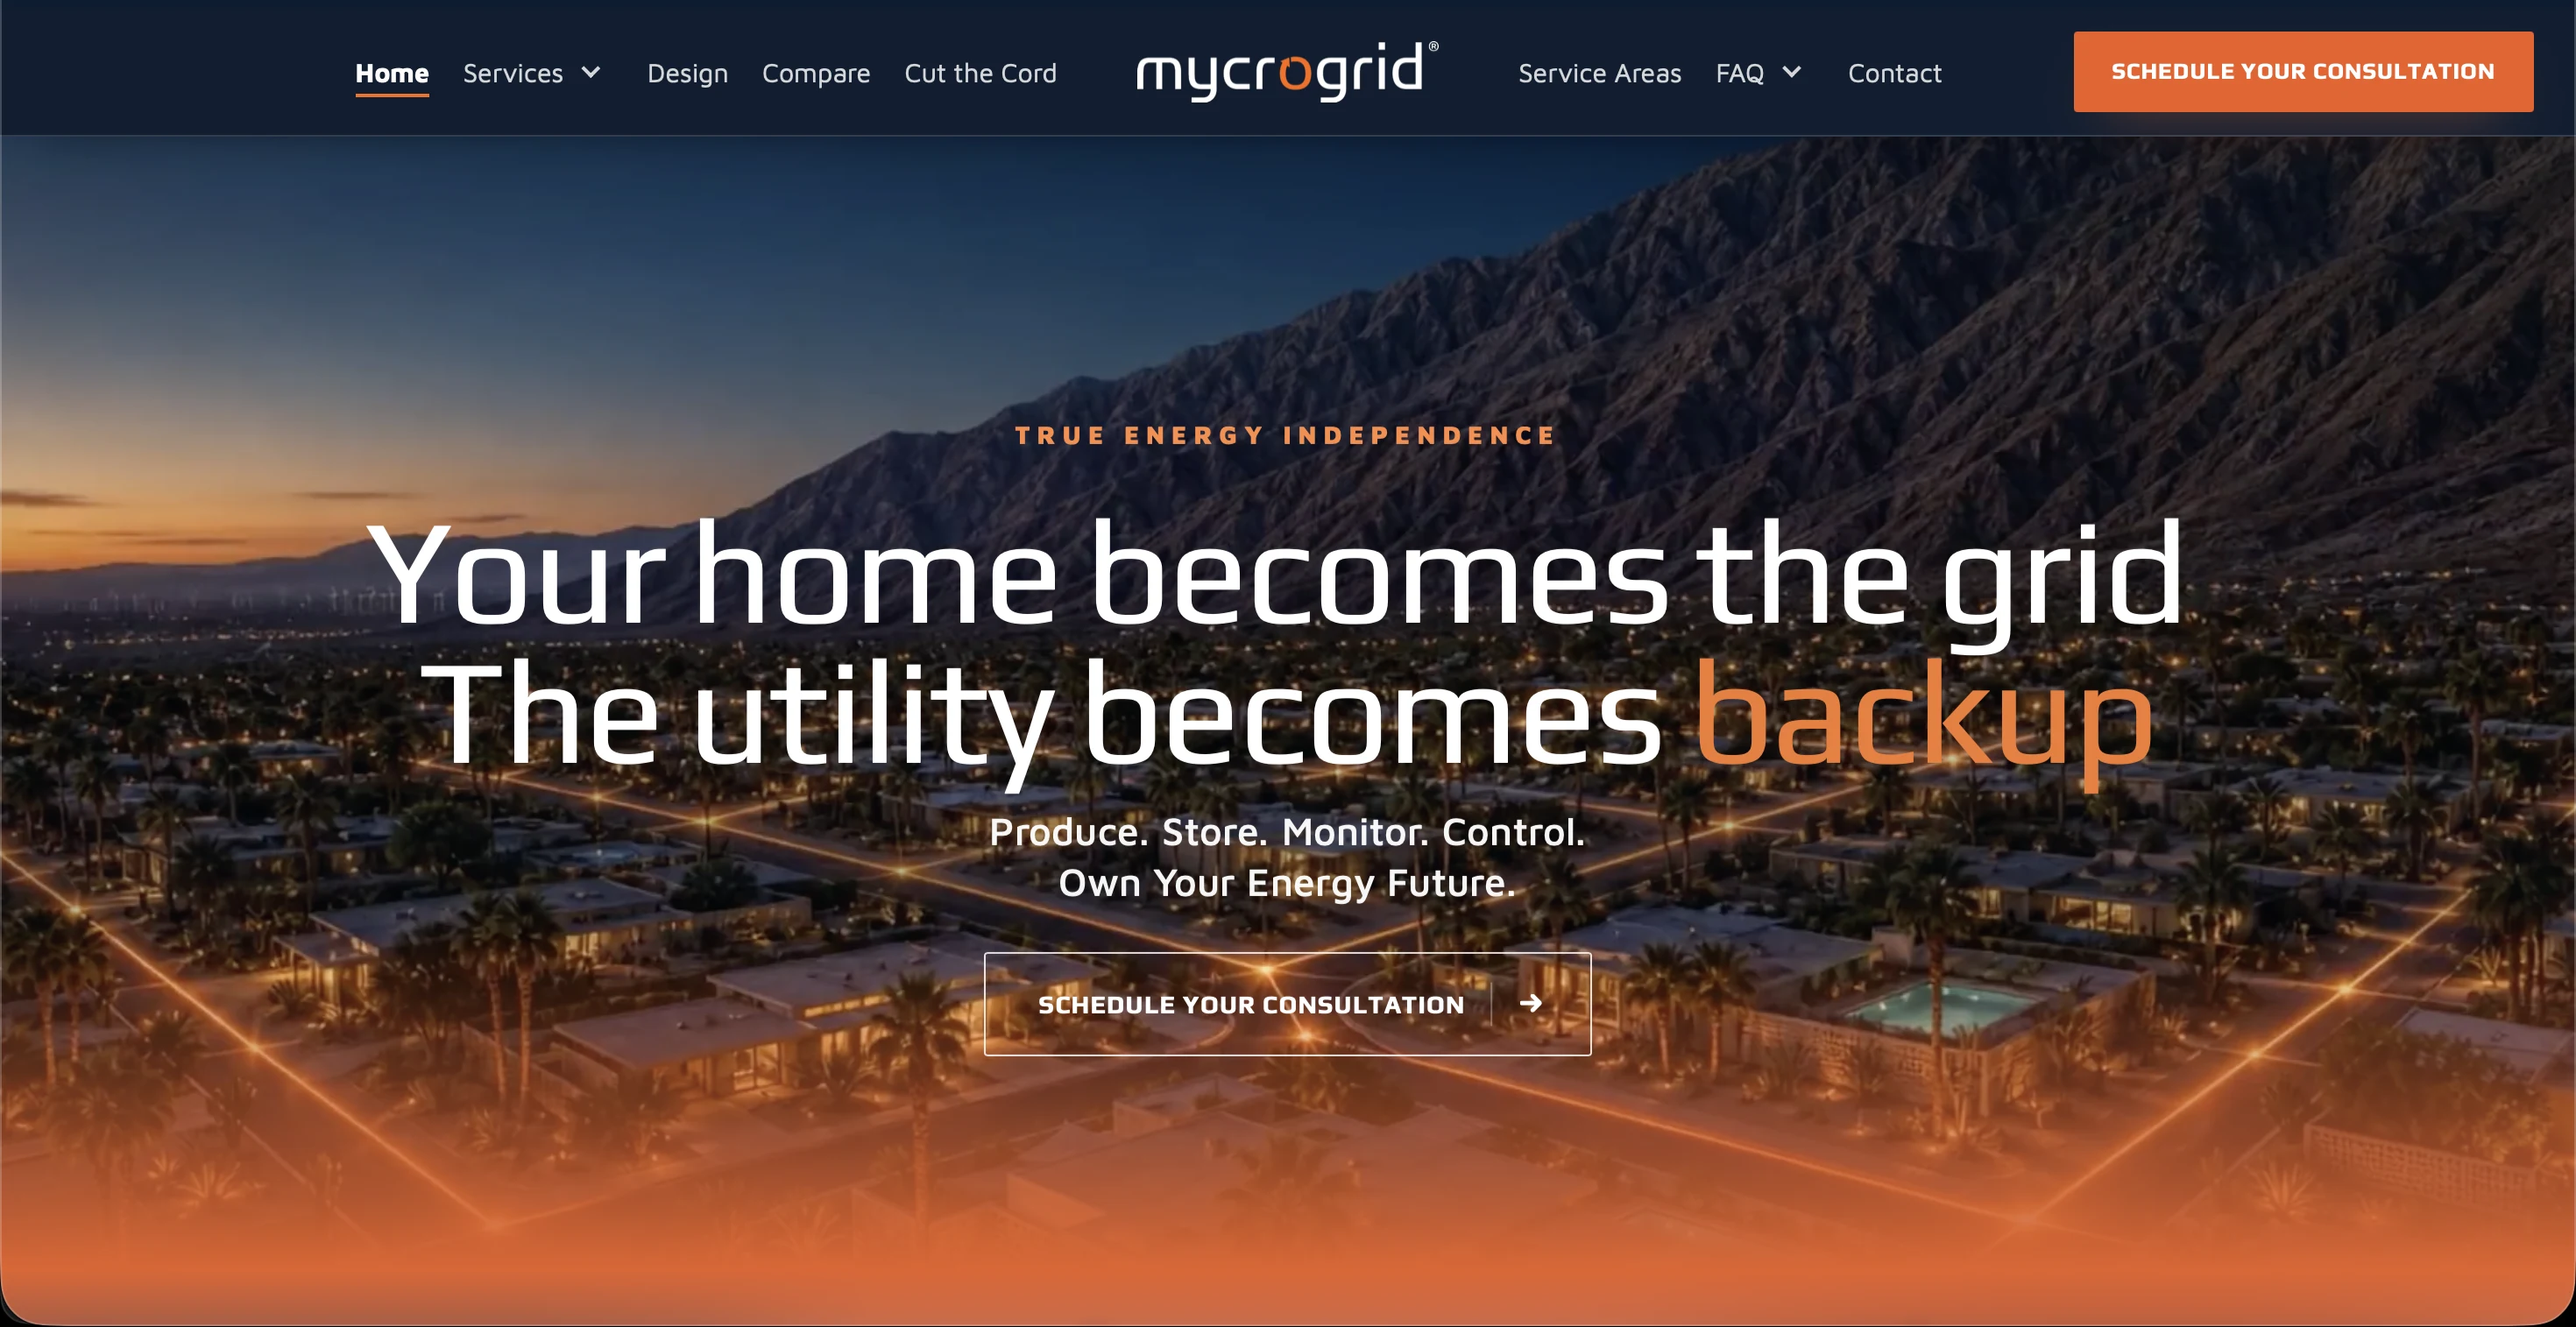
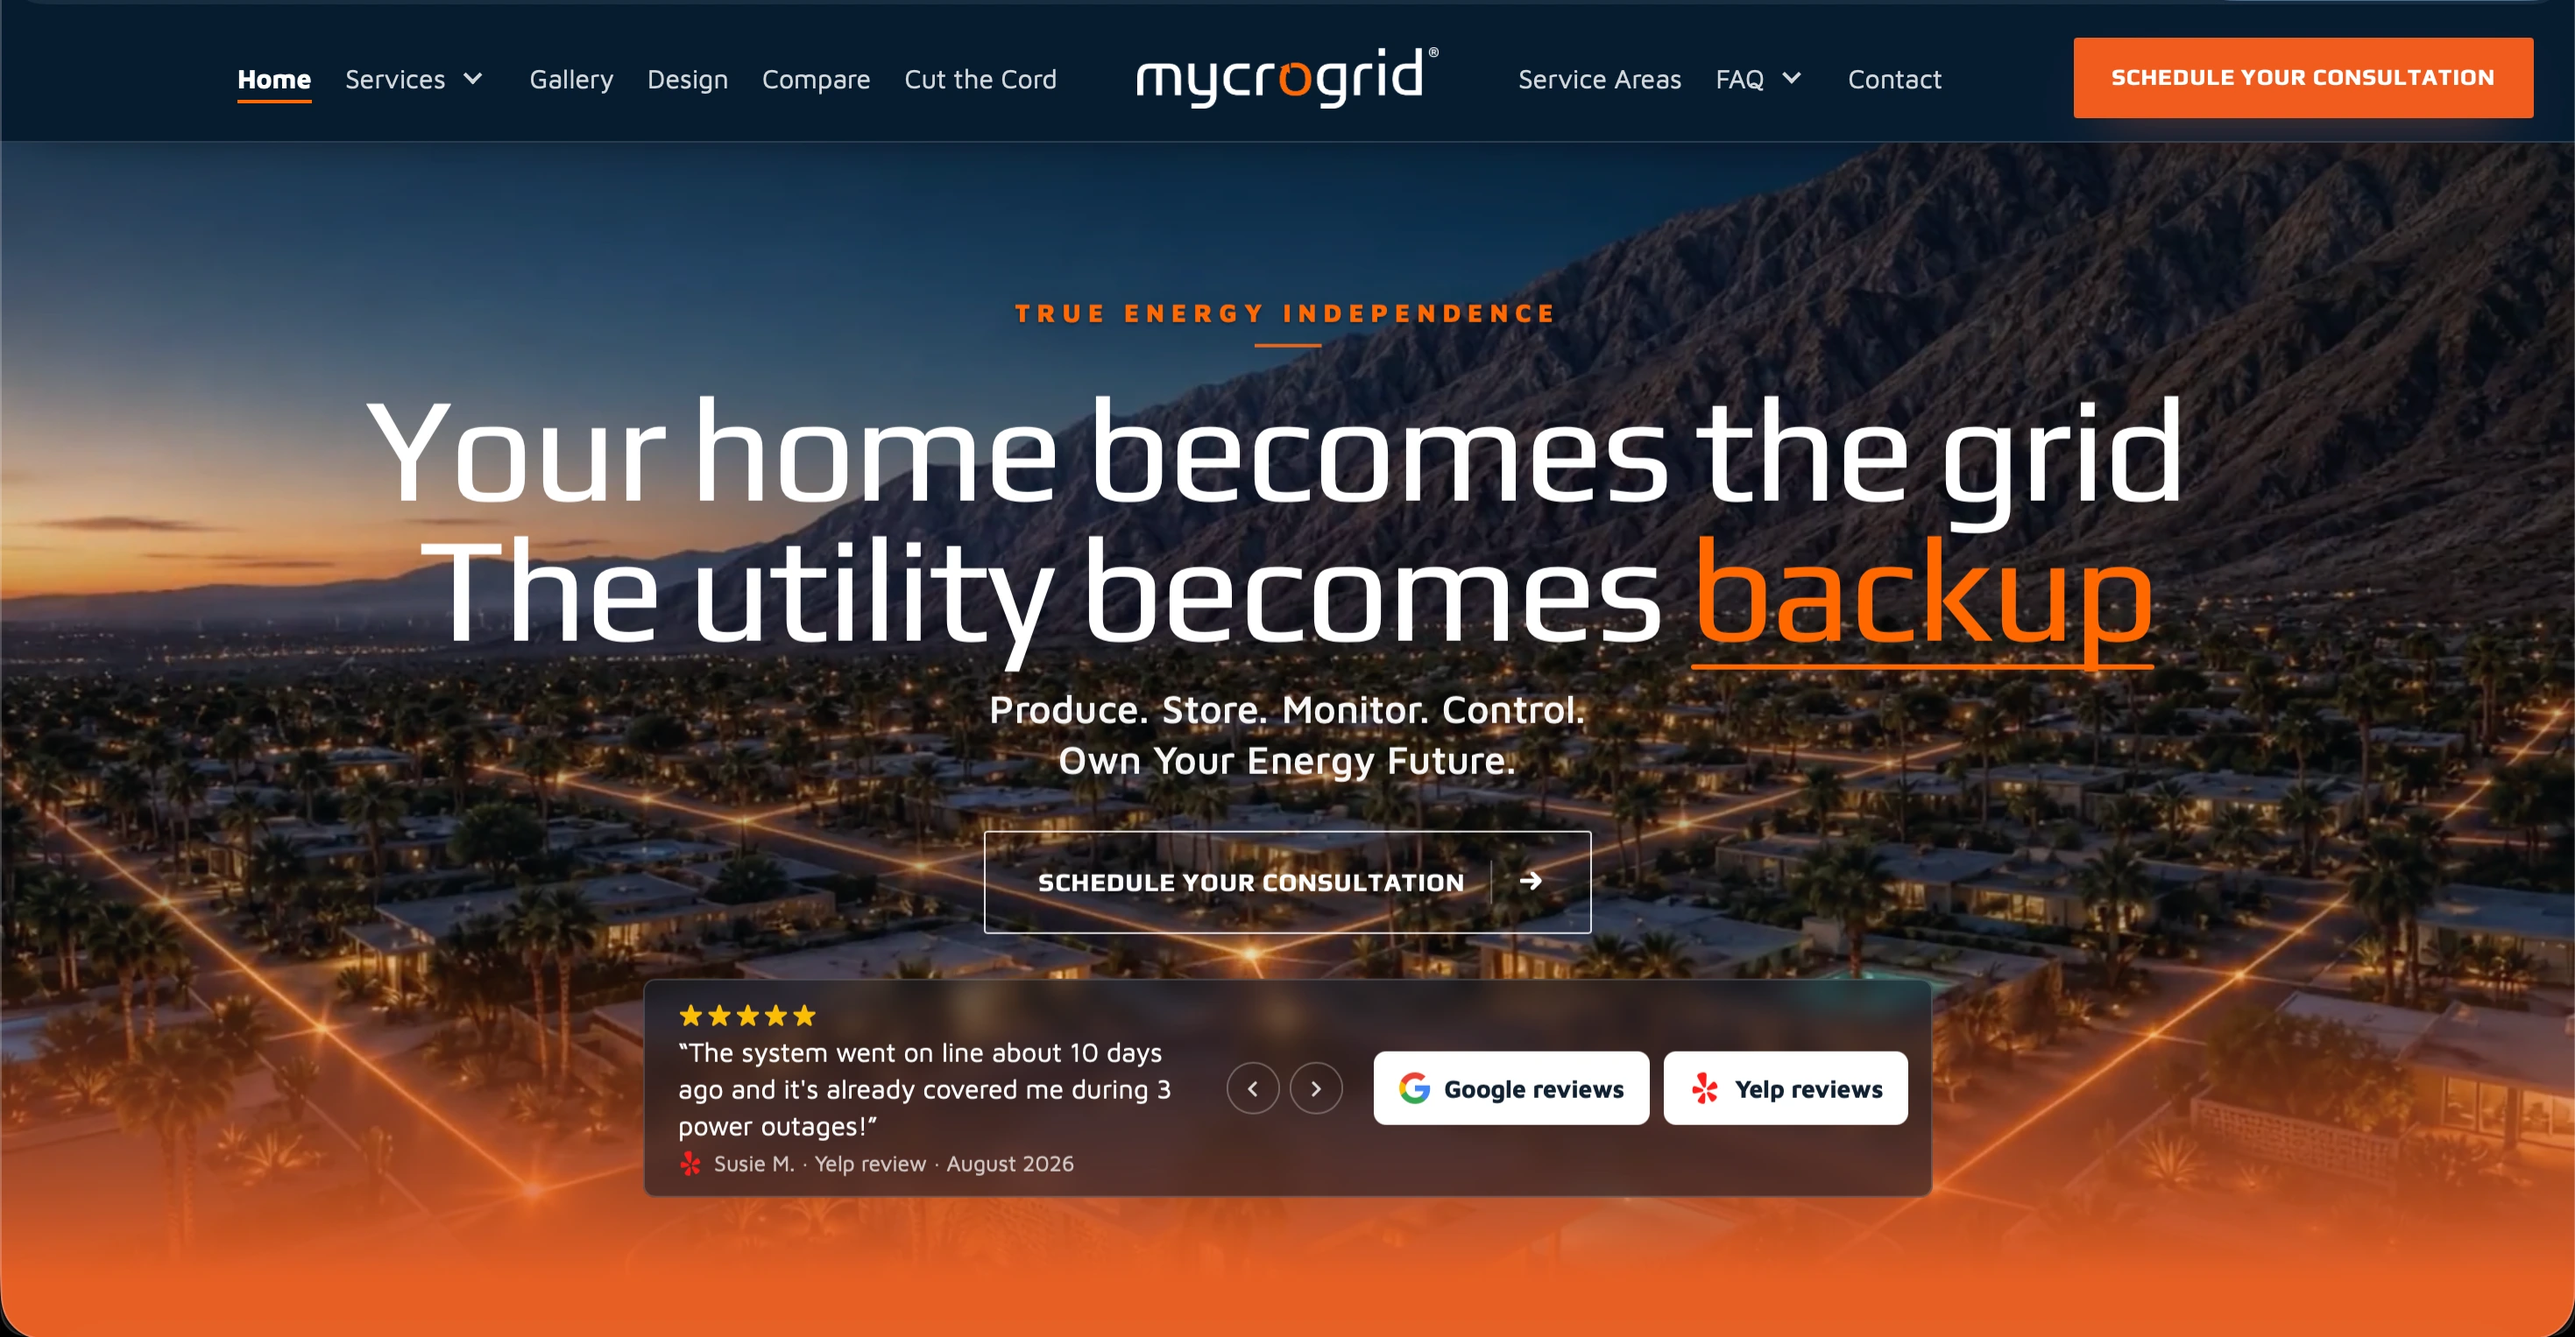
feat(work): refresh Mycrogrid cover from Exaltrio

diff --git a/index.html b/index.html
@@ -184,7 +184,7 @@
                 <div class="studio-projects">
                     <article class="studio-project">
                         <a class="studio-project-link" href="https://www.exaltrio.com/work/mycrogrid/" target="_blank" rel="noopener noreferrer" aria-label="View the Mycrogrid case study on Exaltrio">
-                            <img class="studio-project-cover" src="images/mycrogrid-work-cover.webp" alt="Mycrogrid homepage showing a connected desert neighborhood at dusk" width="2940" height="1515" loading="lazy" decoding="async">
+                            <img class="studio-project-cover" src="images/mycrogrid-work-cover.webp" alt="Mycrogrid homepage showing a connected desert neighborhood at dusk" width="2939" height="1527" loading="lazy" decoding="async">
                             <div class="studio-project-heading">
                                 <h4><img class="studio-client-logo studio-client-logo-mycrogrid" src="images/mycrogrid-logo.webp" alt="Mycrogrid" width="350" height="76" loading="lazy" decoding="async"></h4>
                             </div>
